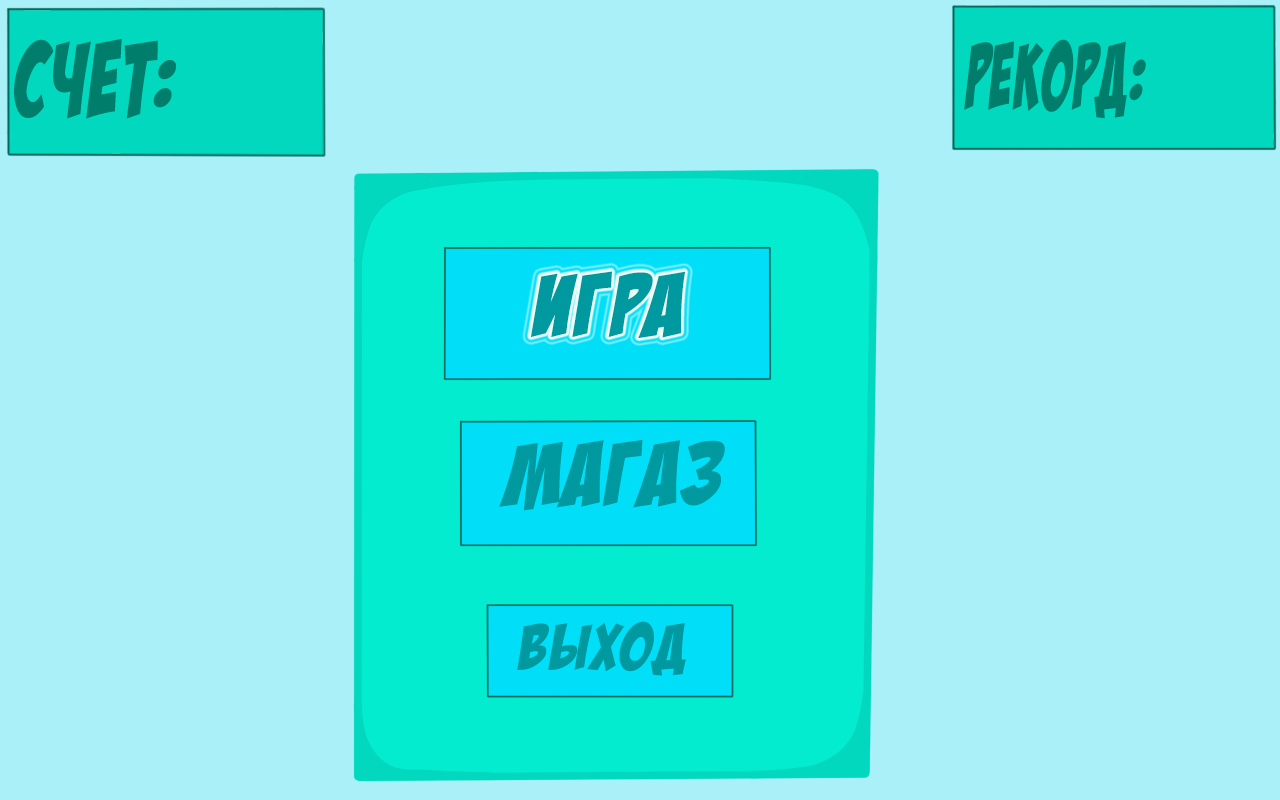
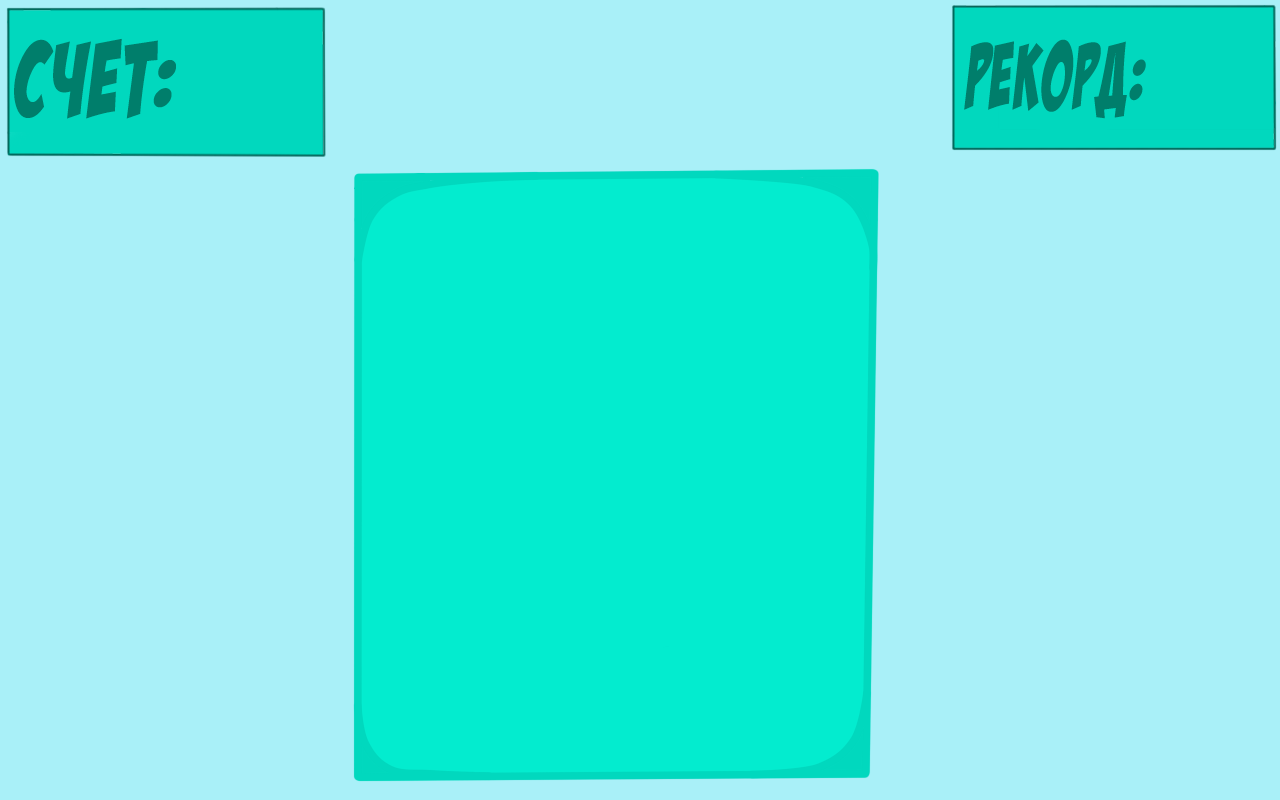
Add files via upload

Changed region(s): [[0.3438, 0.2812, 0.625, 0.6875], [0.375, 0.75, 0.5938, 0.875]]

diff --git a/game.js b/game.js
@@ -27,17 +27,12 @@ game.newLoopFromConstructor('myGame', function () {
 	var GAME = 0;
 
   // Объявим переменную скорости
-  var speed = 0;
+  var speed = 2;
 
   // Объявим переменну счета
   var score = 0;
 
   // Первым делом создадим фон
-
-  var back = game.newImageObject({
-    file : 'pic/bg_3.jpg',
-    h : 600 // Растягивание фона под экран
-  });
 
   // Теперь создадим деда мороза (ну или санту)
   var santa = game.newImageObject({
@@ -69,26 +64,15 @@ game.newLoopFromConstructor('myGame', function () {
     // удобного округления
 
     game.clear(); // clear screen
-	
 
+	if(GAME == 1){
+	
+	var back = game.newImageObject({
+    file : 'pic/bg_3.jpg',
+    h : 600 // Растягивание фона под экран
+	});
+	
     back.draw(); // Отрисуем фон
-	if(speed == 0){
-		brush.drawText({
-		  x : 200, y : 50,
-		  text : 'Для старта нажмите мышкой',
-		  size : 25,
-		  color : '#FFFFFF',
-		  strokeColor : 'black',
-		  strokeWidth : 2,
-		  style : 'bold',
-		  font : 'Arial'
-		});
-		if (mouse.isDown('LEFT')) {
-		  speed = 2;
-		}
-		
-		
-	}
     santa.draw(); // Отрисуем санту
 
     // Алгоритм добавления подарков по таймеру
@@ -127,6 +111,9 @@ game.newLoopFromConstructor('myGame', function () {
         santa.x += speed * dt;
     }
 	
+	if (key.isDown('ESC')) {
+      GAME = 0;
+    }
 
     // Отрисуем счет
     brush.drawText({
@@ -139,6 +126,39 @@ game.newLoopFromConstructor('myGame', function () {
       style : 'bold',
       font : 'Arial'
     });
+	
+	} else if(GAME == 0){
+		back = game.newImageObject({
+		file : 'pic/menu_game.png',
+		h : 600,
+		w : 900
+		});
+		back.draw();
+		var game_buttom = game.newImageObject({
+			file : 'pic/game_buttom.png',
+			h : 114,
+			w : 305,
+			x : 285,
+			y : 180
+		});
+		game_buttom.draw();
+		brush.drawText({
+		  x : 150, y : 30,
+		  text : '' + score,
+		  size : 50,
+		  color : '#FFFFFF',
+		  strokeColor : 'black',
+		  strokeWidth : 2,
+		  style : 'bold',
+		  font : 'Arial'
+		});
+		if (mouse.isPeekObject('LEFT', game_buttom)) {
+			GAME = 1;
+		}
+		if (key.isDown('ENTER')) {
+			GAME = 1;
+		}
+	}
 
   };
 
